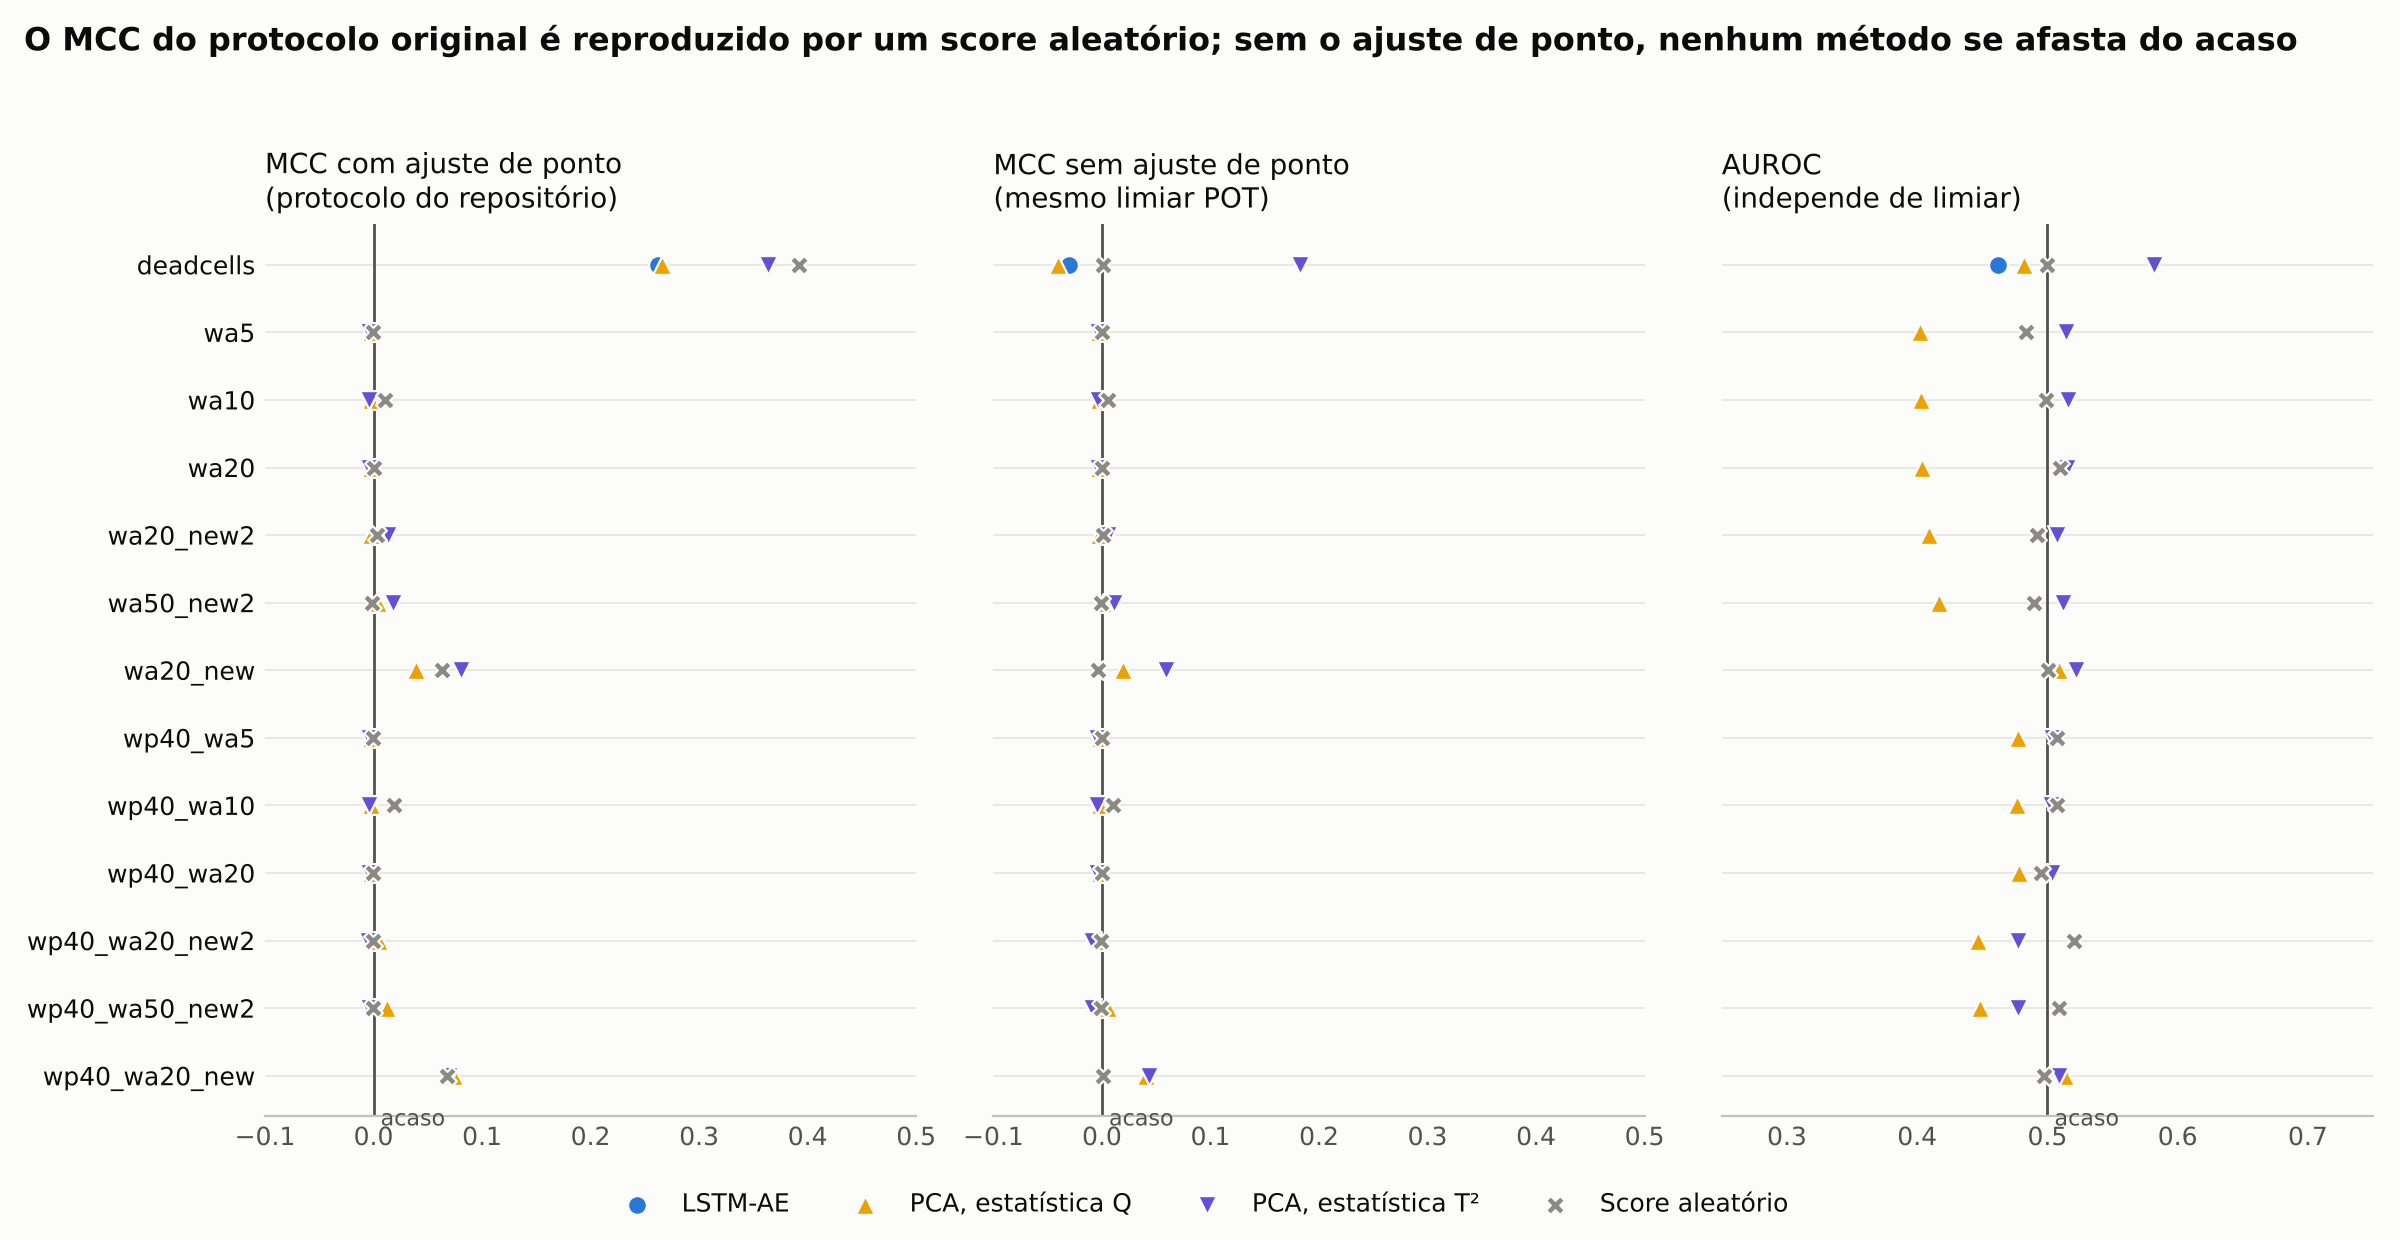
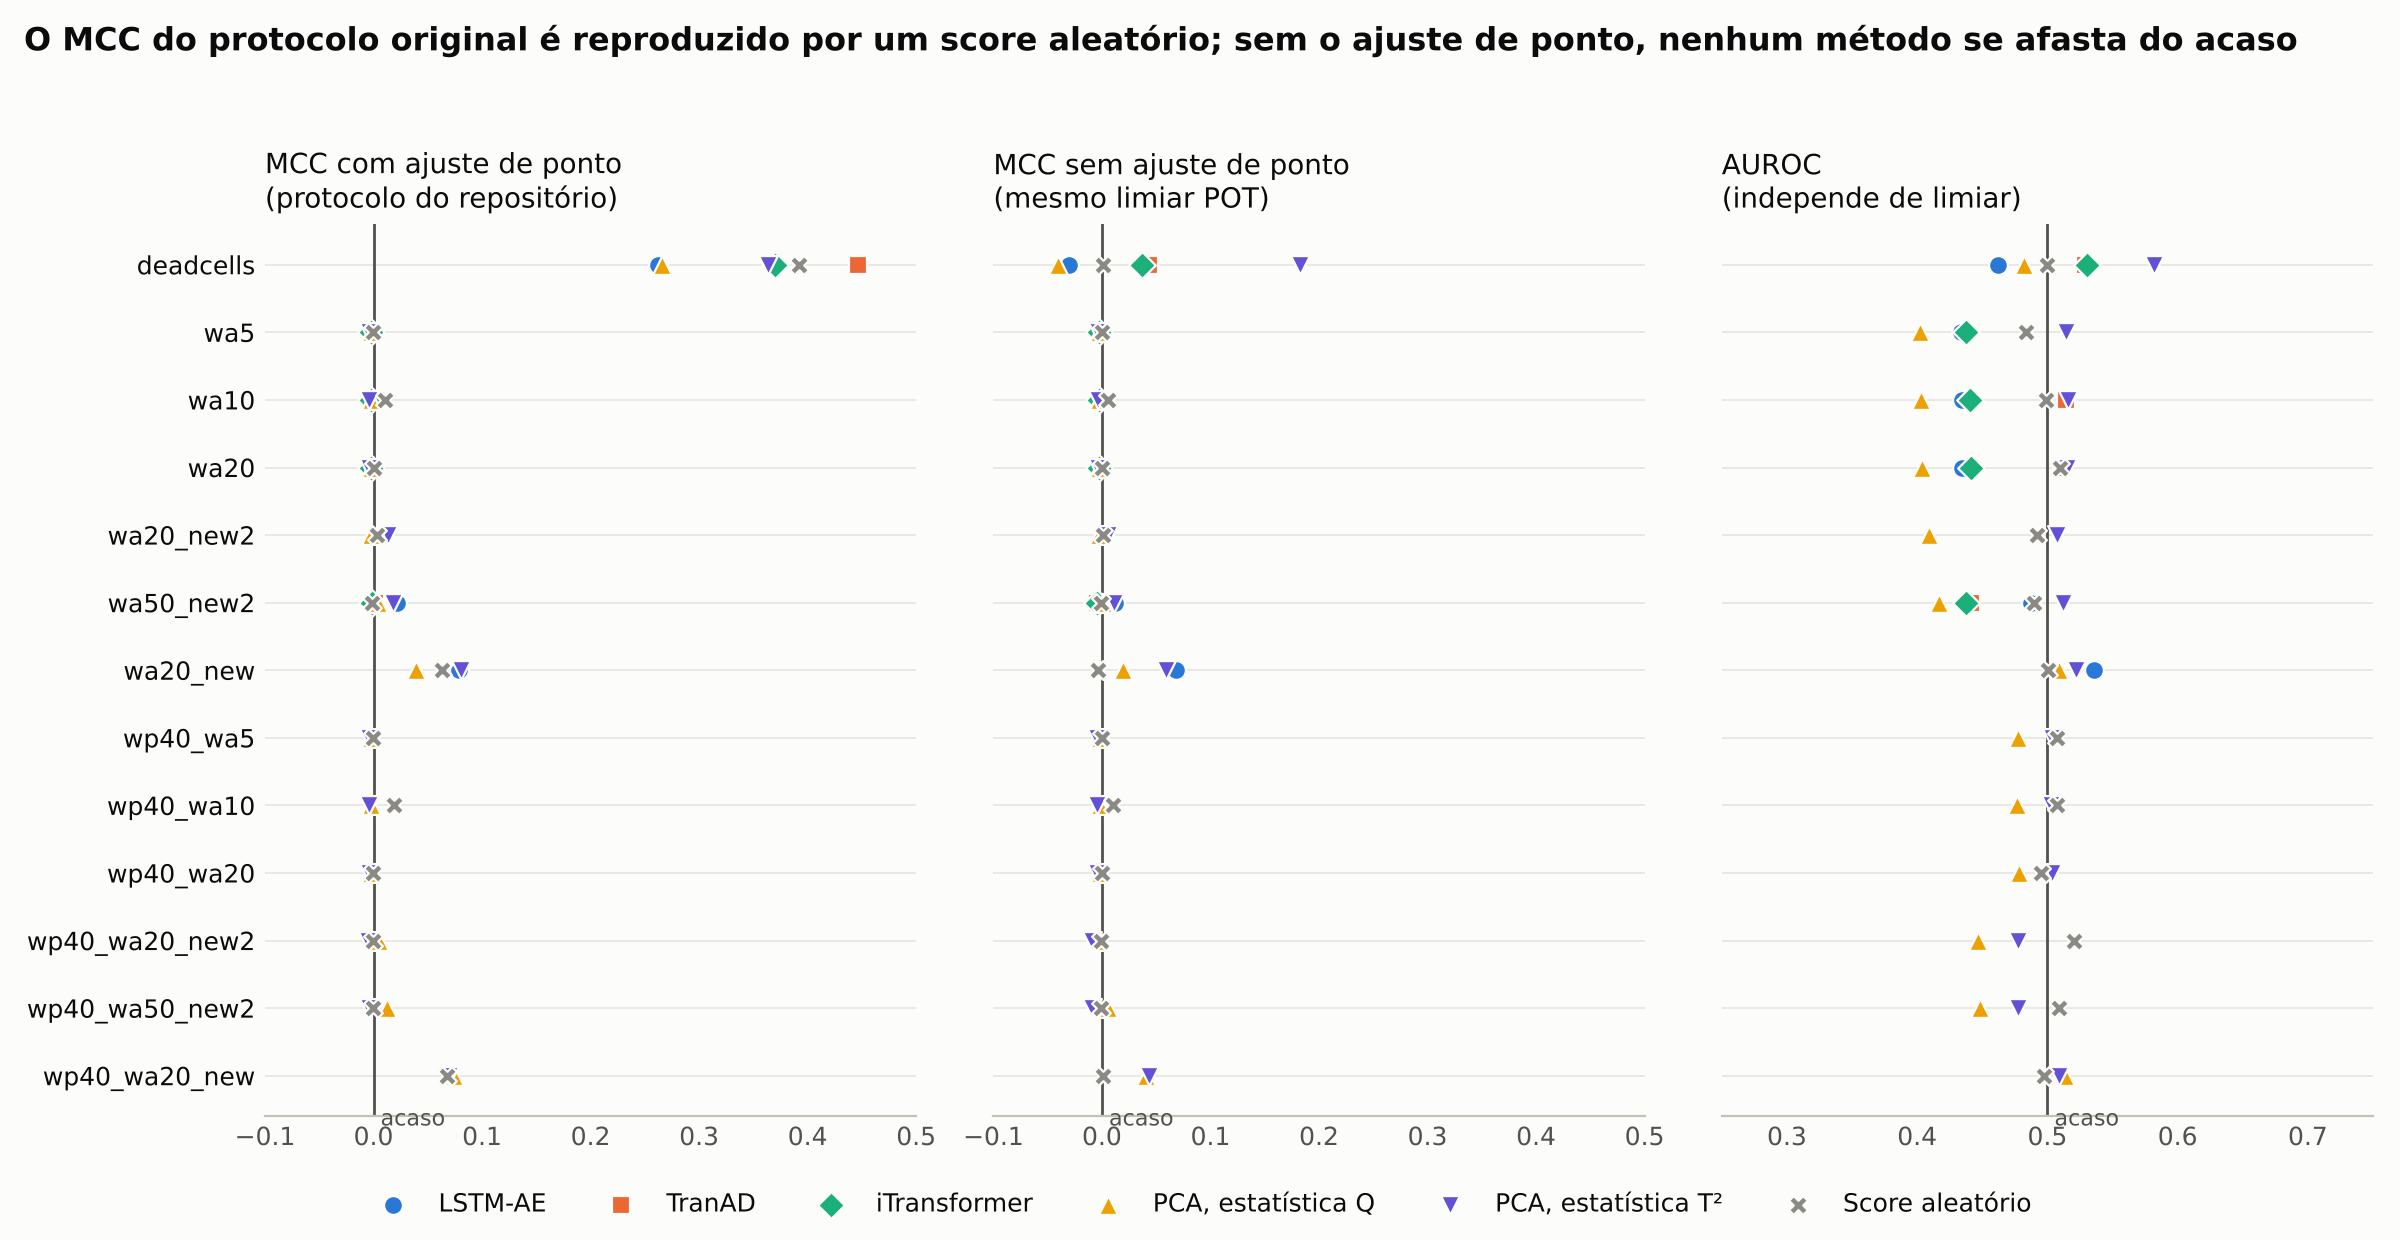
Comparacao parcial: PCA x modelos do artigo x score aleatorio
Modelos profundos com 1 semente em CPU; 15 de 39 treinos concluidos
(6 LSTM-AE, 4 TranAD, 5 iTransformer). Execucoes interrompidas sao ignoradas.

Claude-Session: https://claude.ai/code/session_01FMijmL8Z2Xw9nv22qyVY2Q

diff --git a/compara_modelos.py b/compara_modelos.py
@@ -20,7 +20,7 @@ linhas = []
 for res in sorted(glob.glob('*/*_lorenzetti_*/window10_steps1_dmodel2_feats-1_eps10_MSE/seed*/results')):
     partes = res.split(os.sep)
     modelo, cenario, semente = partes[0], partes[1][len(partes[0]) + 1:], partes[3]
-    if not os.path.exists(f'{res}/score_global_test.npy'):
+    if not (os.path.exists(f'{res}/score_global_test.npy') and os.path.exists(f'{res}/res.csv')):  # ignora execucoes interrompidas
         continue
     s = np.load(f'{res}/score_global_test.npy')
     y = carrega('processed', cenario)[2]
